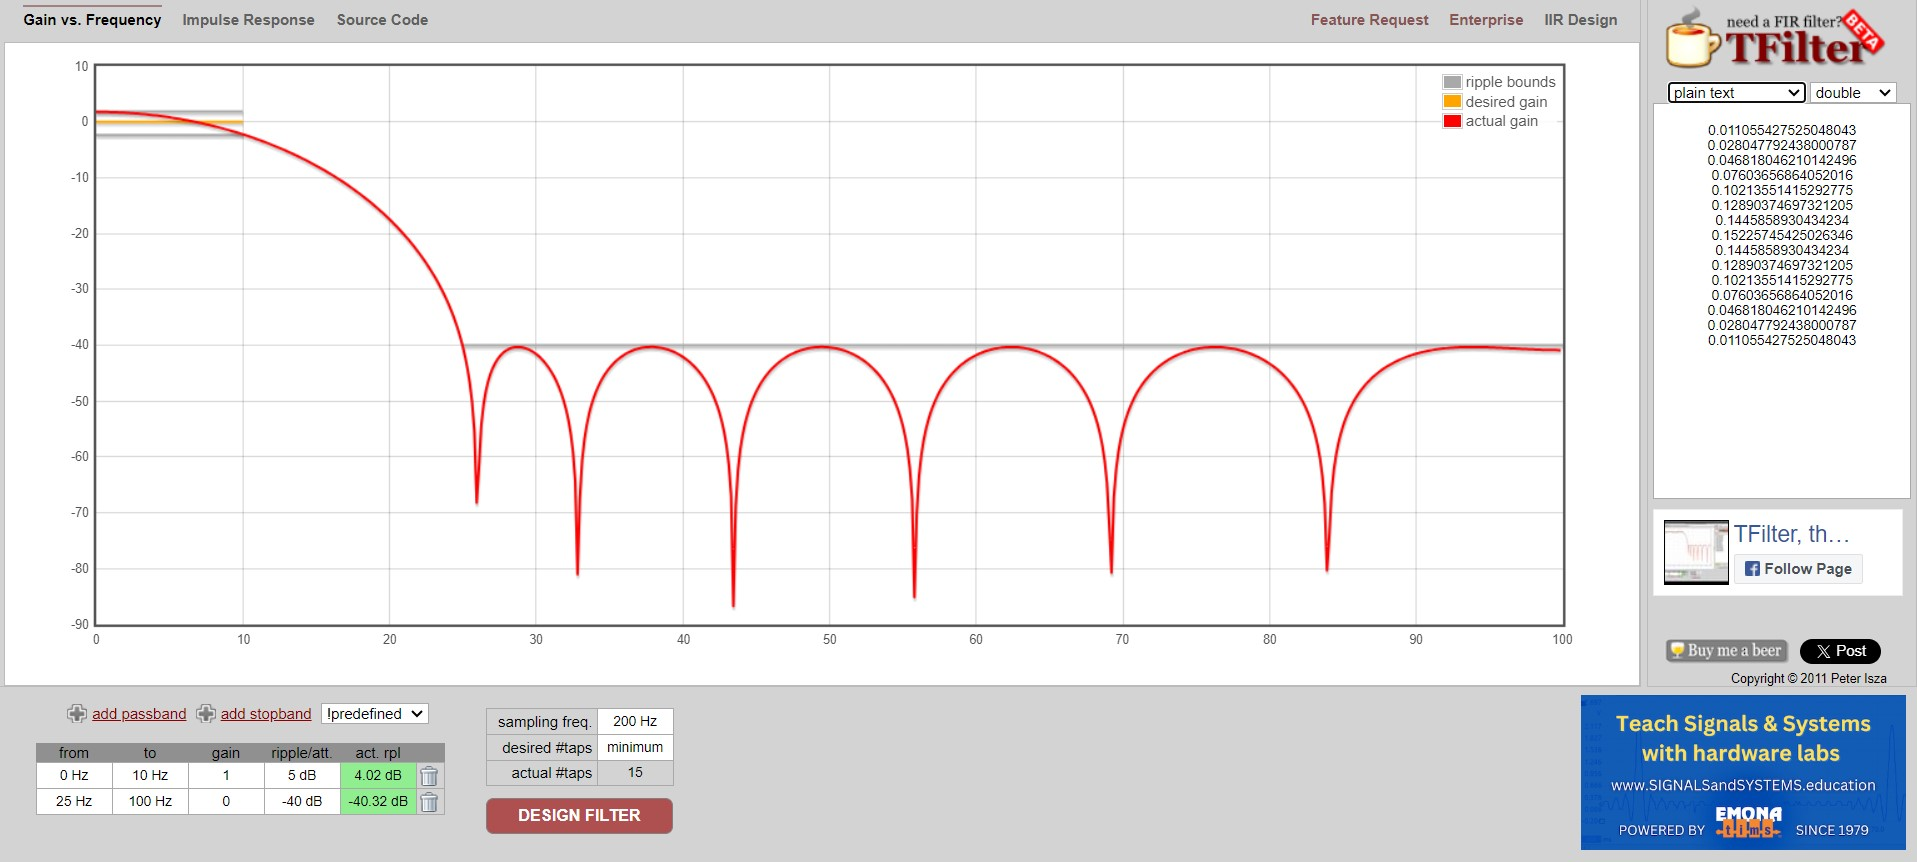
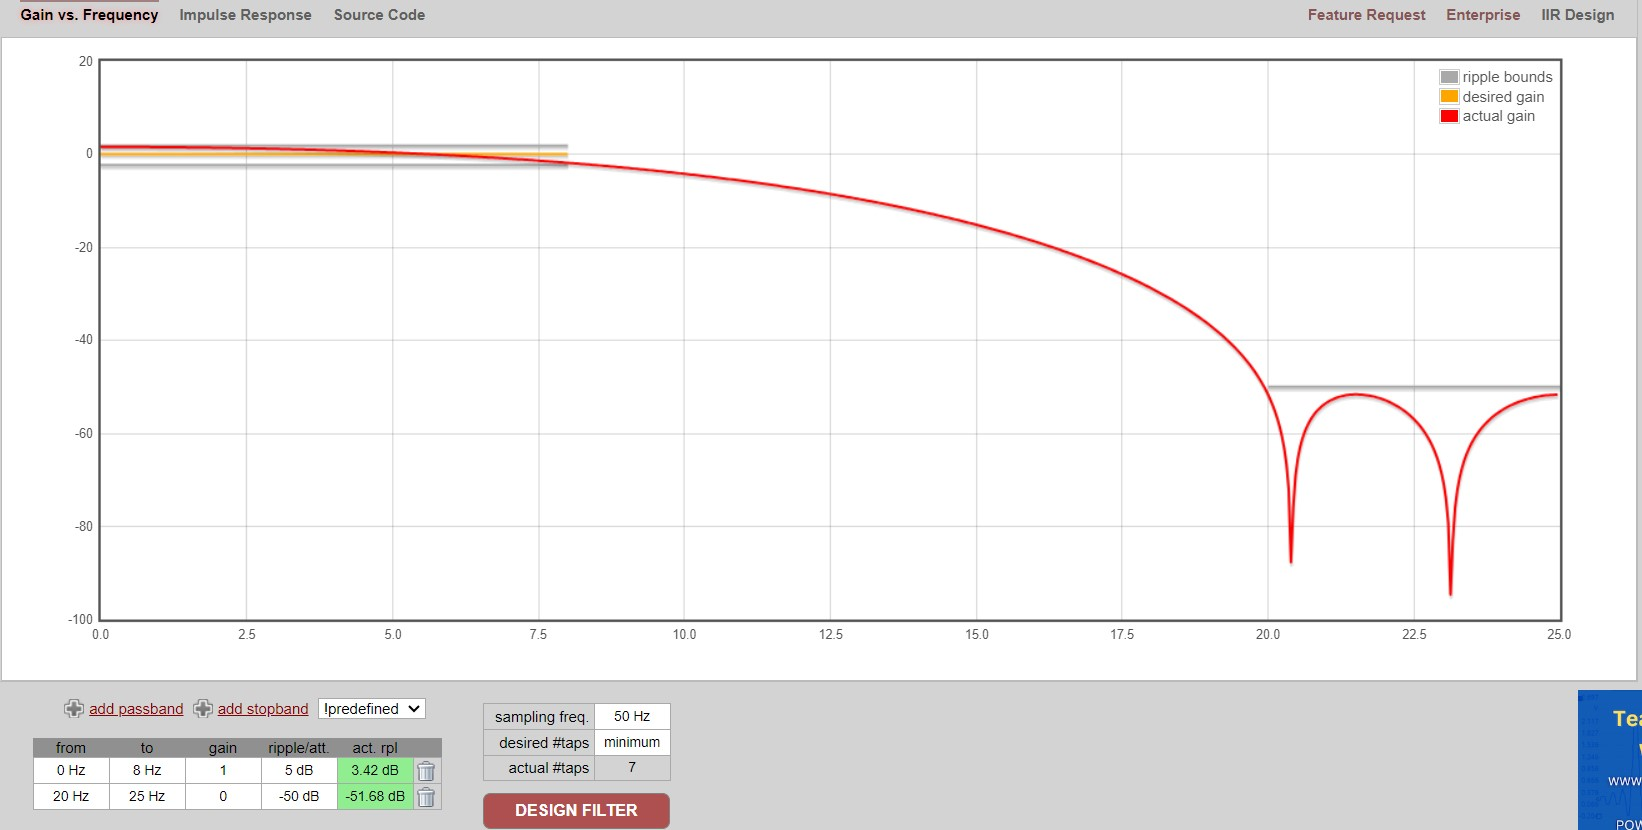
Updated FIR filter and phi_velocity_ctrl

diff --git a/Demo1/Arduino_Code/utils/Tracker.h b/Demo1/Arduino_Code/utils/Tracker.h
@@ -42,8 +42,7 @@
 #include "robotConstants.h"
 
 #define VELOCITY_READ_INTERVAL_MS 20
-#define FILTER_TAP_NUM 15
-
+#define FILTER_TAP_NUM 7
 
 class Tracker {
     public:
@@ -126,7 +125,7 @@ class Tracker {
         if (curTime - lastVelocityReadTime >= VELOCITY_READ_INTERVAL_MS) {
 
             // setup variables
-            double timeStepS = (curTime - lastVelocityReadTime)/1000;
+            double timeStepS = (curTime - lastVelocityReadTime)/1000.0;
             rightPosRad = cnt2Rad(rightEncCnt);
             leftPosRad = cnt2Rad(leftEncCnt);
 
@@ -259,7 +258,7 @@ class Tracker {
     double leftSpeedRpS;
     double rhoSpeedMpS;
     double phiSpeedRpS;
-    double lastVelocityReadTime;
+    long lastVelocityReadTime;
 
     // velocity sample filter
     static double filter_taps[FILTER_TAP_NUM];
@@ -273,37 +272,33 @@ class Tracker {
 };
 
 /*
+
 FIR filter designed with
 http://t-filter.appspot.com
 
-sampling frequency: 200 Hz
+sampling frequency: 50 Hz
 
-* 0 Hz - 10 Hz
-gain = 1
-desired ripple = 5 dB
-actual ripple = 4.021057561671436 dB
+* 0 Hz - 8 Hz
+  gain = 1
+  desired ripple = 5 dB
+  actual ripple = 3.4208755570234484 dB
 
-* 25 Hz - 100 Hz
-gain = 0
-desired attenuation = -40 dB
-actual attenuation = -40.316442921658115 dB
+* 20 Hz - 25 Hz
+  gain = 0
+  desired attenuation = -50 dB
+  actual attenuation = -51.67855666318294 dB
+
 */
-double Tracker::filter_taps[FILTER_TAP_NUM] = {
-0.011055427525048043,
-0.028047792438000787,
-0.046818046210142496,
-0.07603656864052016,
-0.10213551415292775,
-0.12890374697321205,
-0.1445858930434234,
-0.15225745425026346,
-0.1445858930434234,
-0.12890374697321205,
-0.10213551415292775,
-0.07603656864052016,
-0.046818046210142496,
-0.028047792438000787,
-0.011055427525048043
+
+static double filter_taps[FILTER_TAP_NUM] = {
+  -0.01598532973353844,
+  0.05648712148047267,
+  0.3139374054007945,
+  0.4855364950248441,
+  0.3139374054007945,
+  0.05648712148047267,
+  -0.01598532973353844
 };
+
 
 #endif
